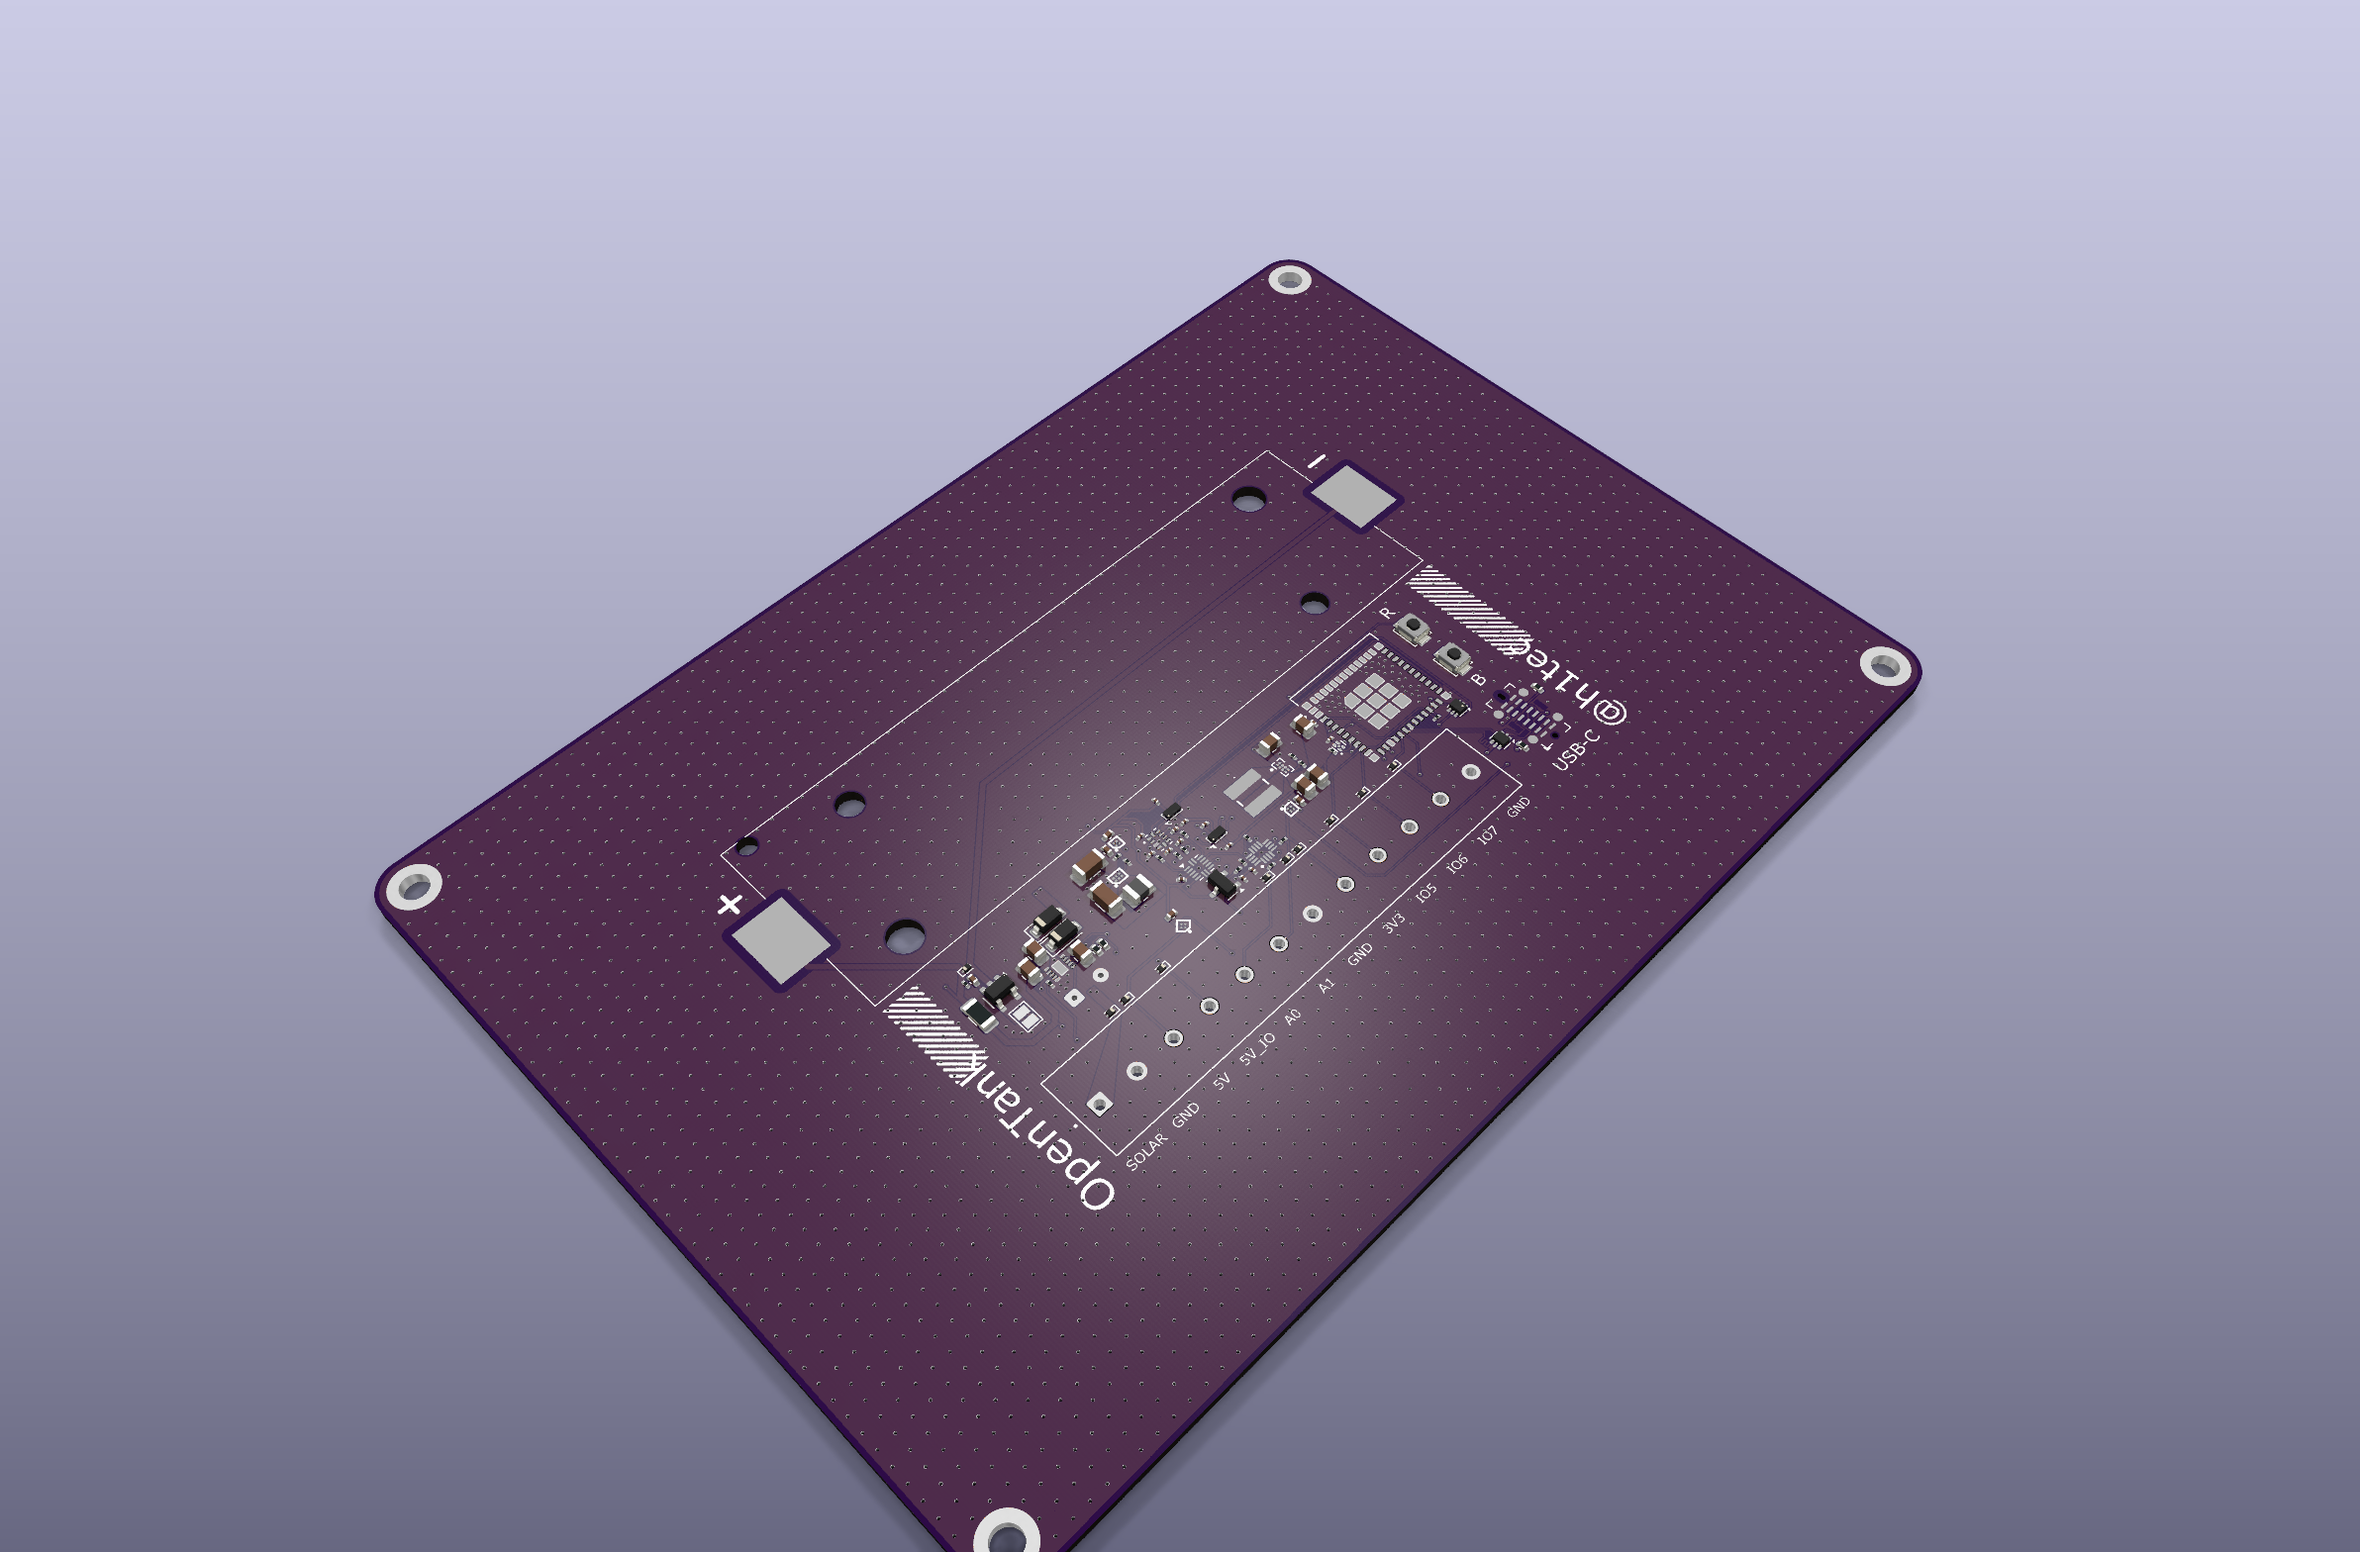
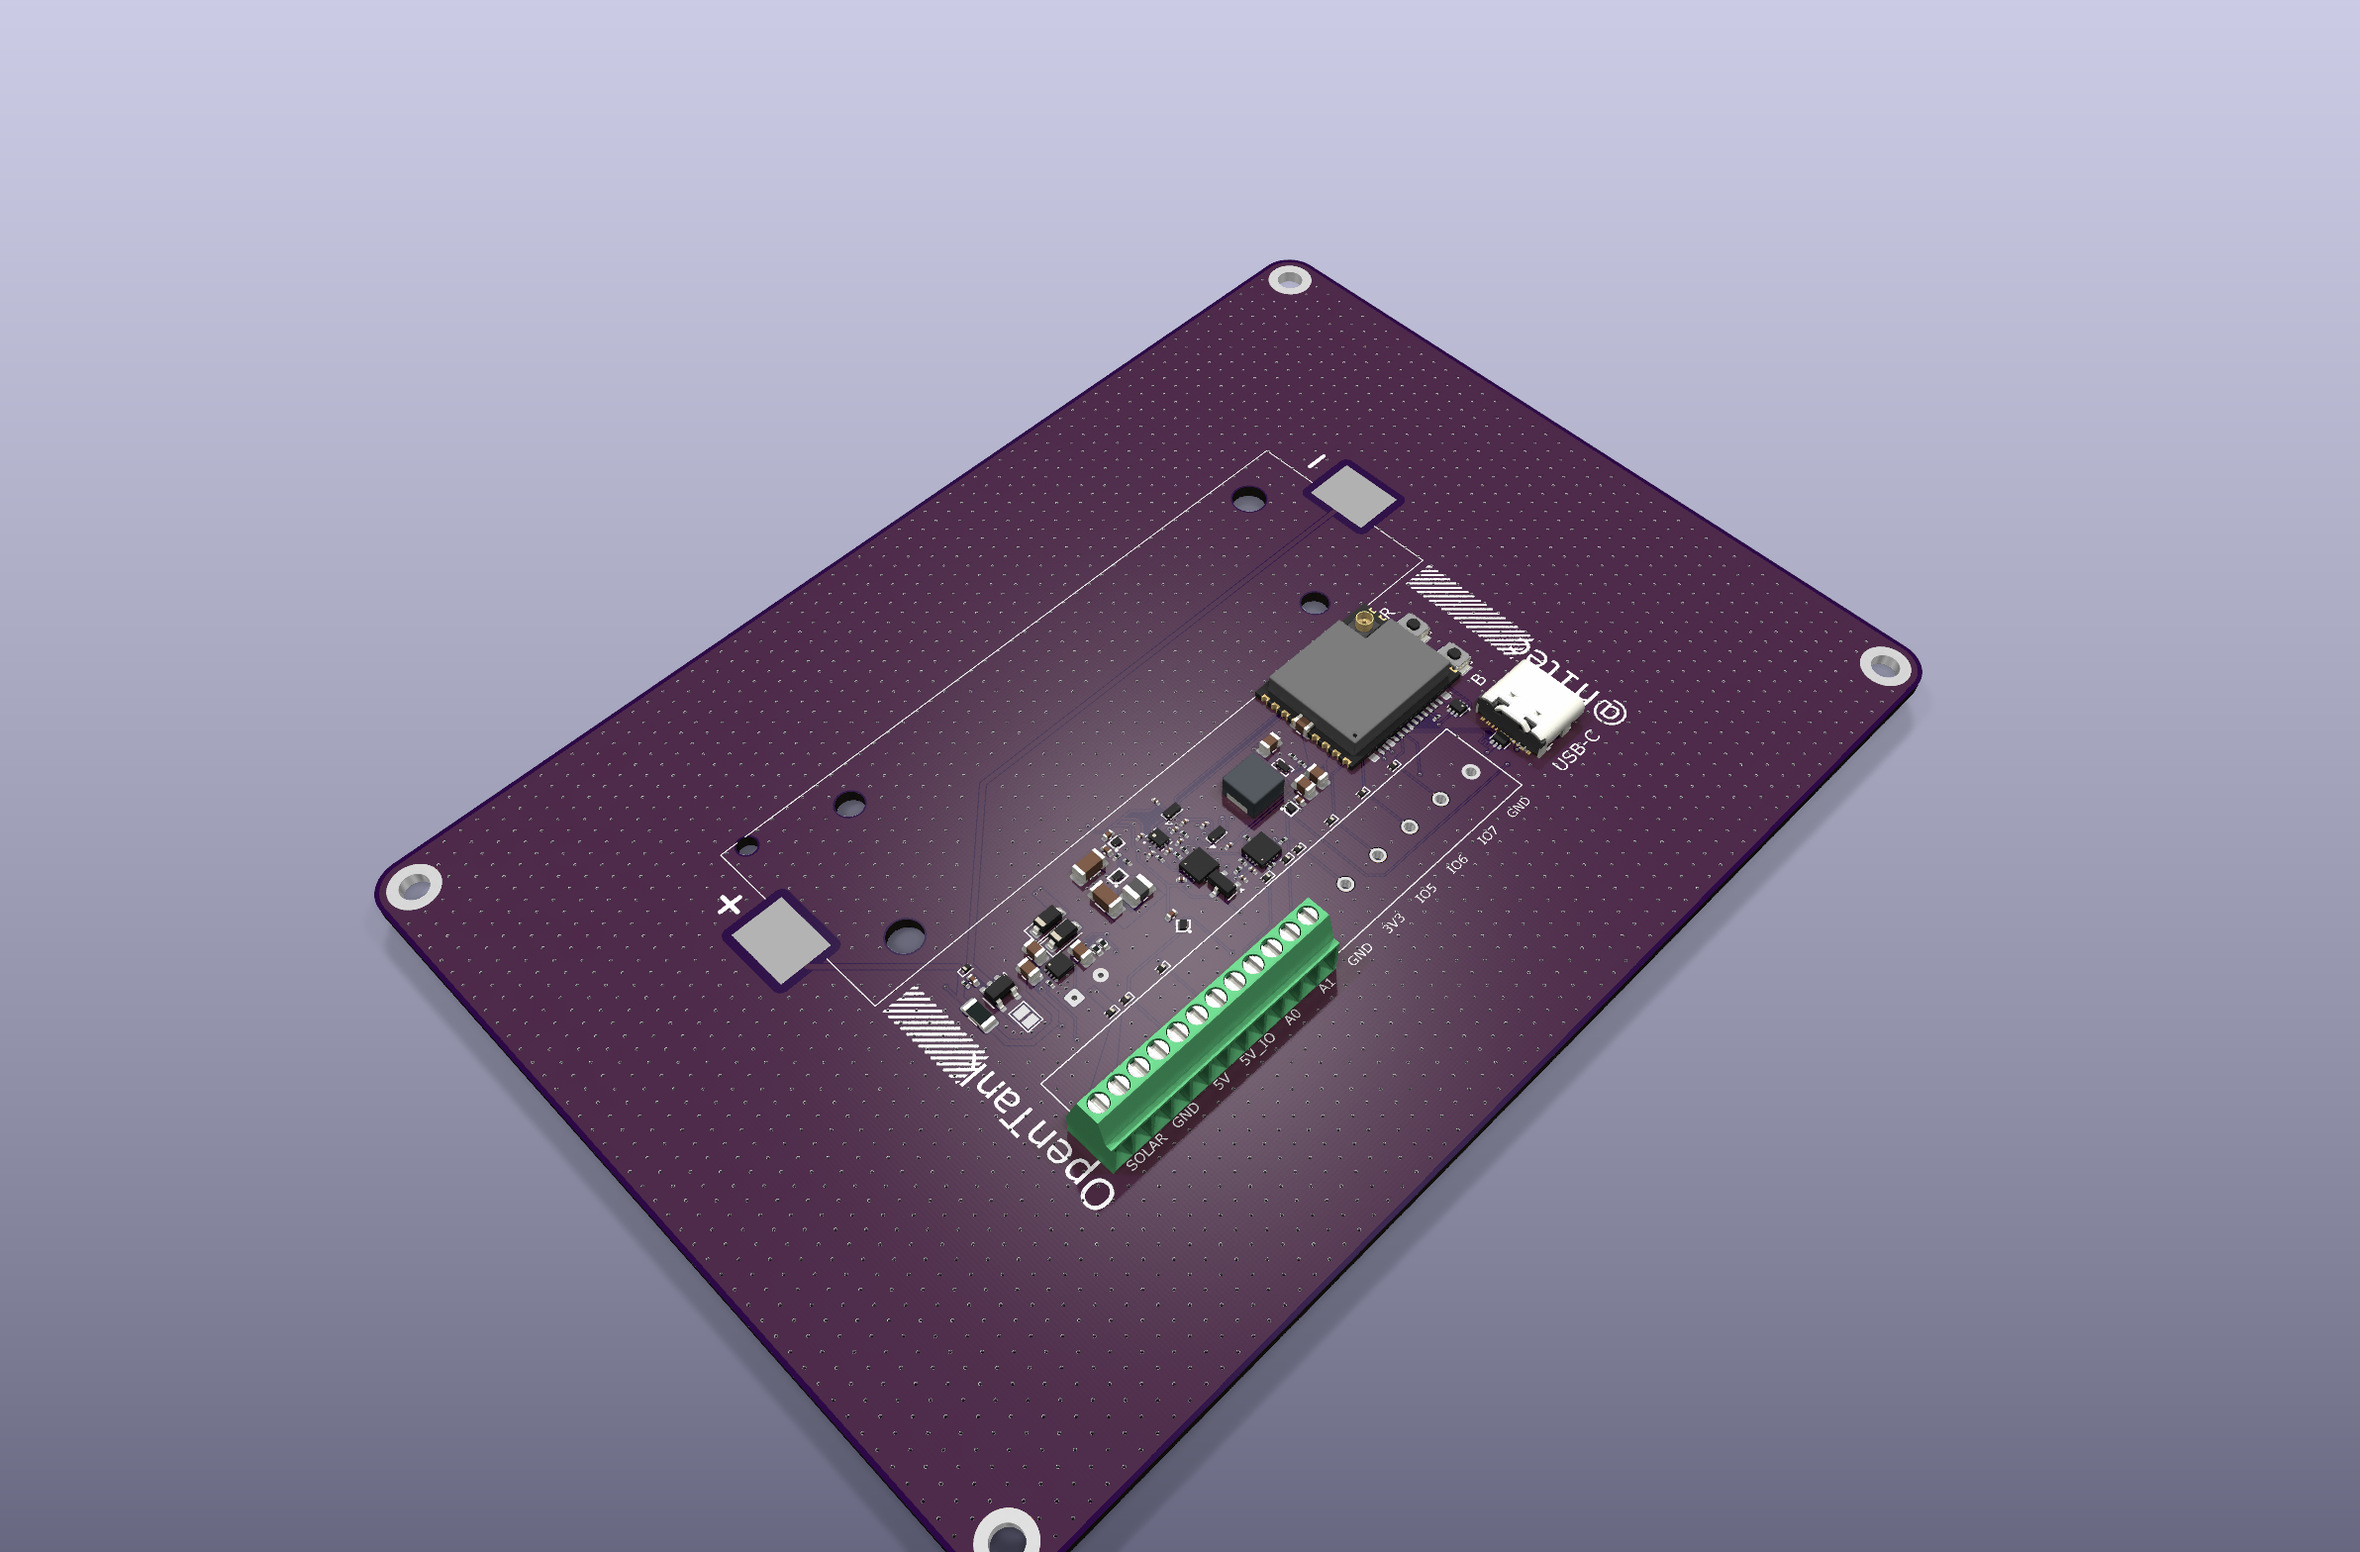
Complete 3D render and add main-branch diffs

Changed region(s): [[0.4346, 0.375, 0.6829, 0.7812], [0.4346, 0.5938, 0.4656, 0.625]]

diff --git a/README.md b/README.md
@@ -8,6 +8,8 @@ https://youtu.be/-s6jZ4U3TzU
 
 ![OpenTank PCB isometric 3D render](assets/images/pcb-isometric.png)
 
+The render now uses portable KiCad-library models instead of machine-local CAD paths. Where an exact manufacturer model was unavailable, the image uses a visualization-grade package match; confirm critical mechanical geometry against the component datasheet before enclosure or assembly release. The TH1 solder-wire footprint intentionally has no fitted component body.
+
 ### PCB top view
 
 ![OpenTank PCB top copper and silkscreen](assets/images/pcb-top.svg)
@@ -19,6 +21,22 @@ https://youtu.be/-s6jZ4U3TzU
 ### Schematic
 
 ![OpenTank circuit schematic](assets/images/schematic.svg)
+
+## Changes versus `main`
+
+These comparisons use matching KiCad layers, scale, and sheet coordinates. Magenta marks geometry present only on `main` (removed or moved), green marks geometry present only on this branch (added or moved), and gray provides unchanged context.
+
+### PCB top comparison
+
+![OpenTank PCB top view compared with main](assets/images/diffs/pcb-top-vs-main.png)
+
+### PCB bottom comparison
+
+![OpenTank PCB bottom view compared with main](assets/images/diffs/pcb-bottom-vs-main.png)
+
+### Schematic comparison
+
+![OpenTank schematic compared with main](assets/images/diffs/schematic-vs-main.png)
 
 ## Important note
 
